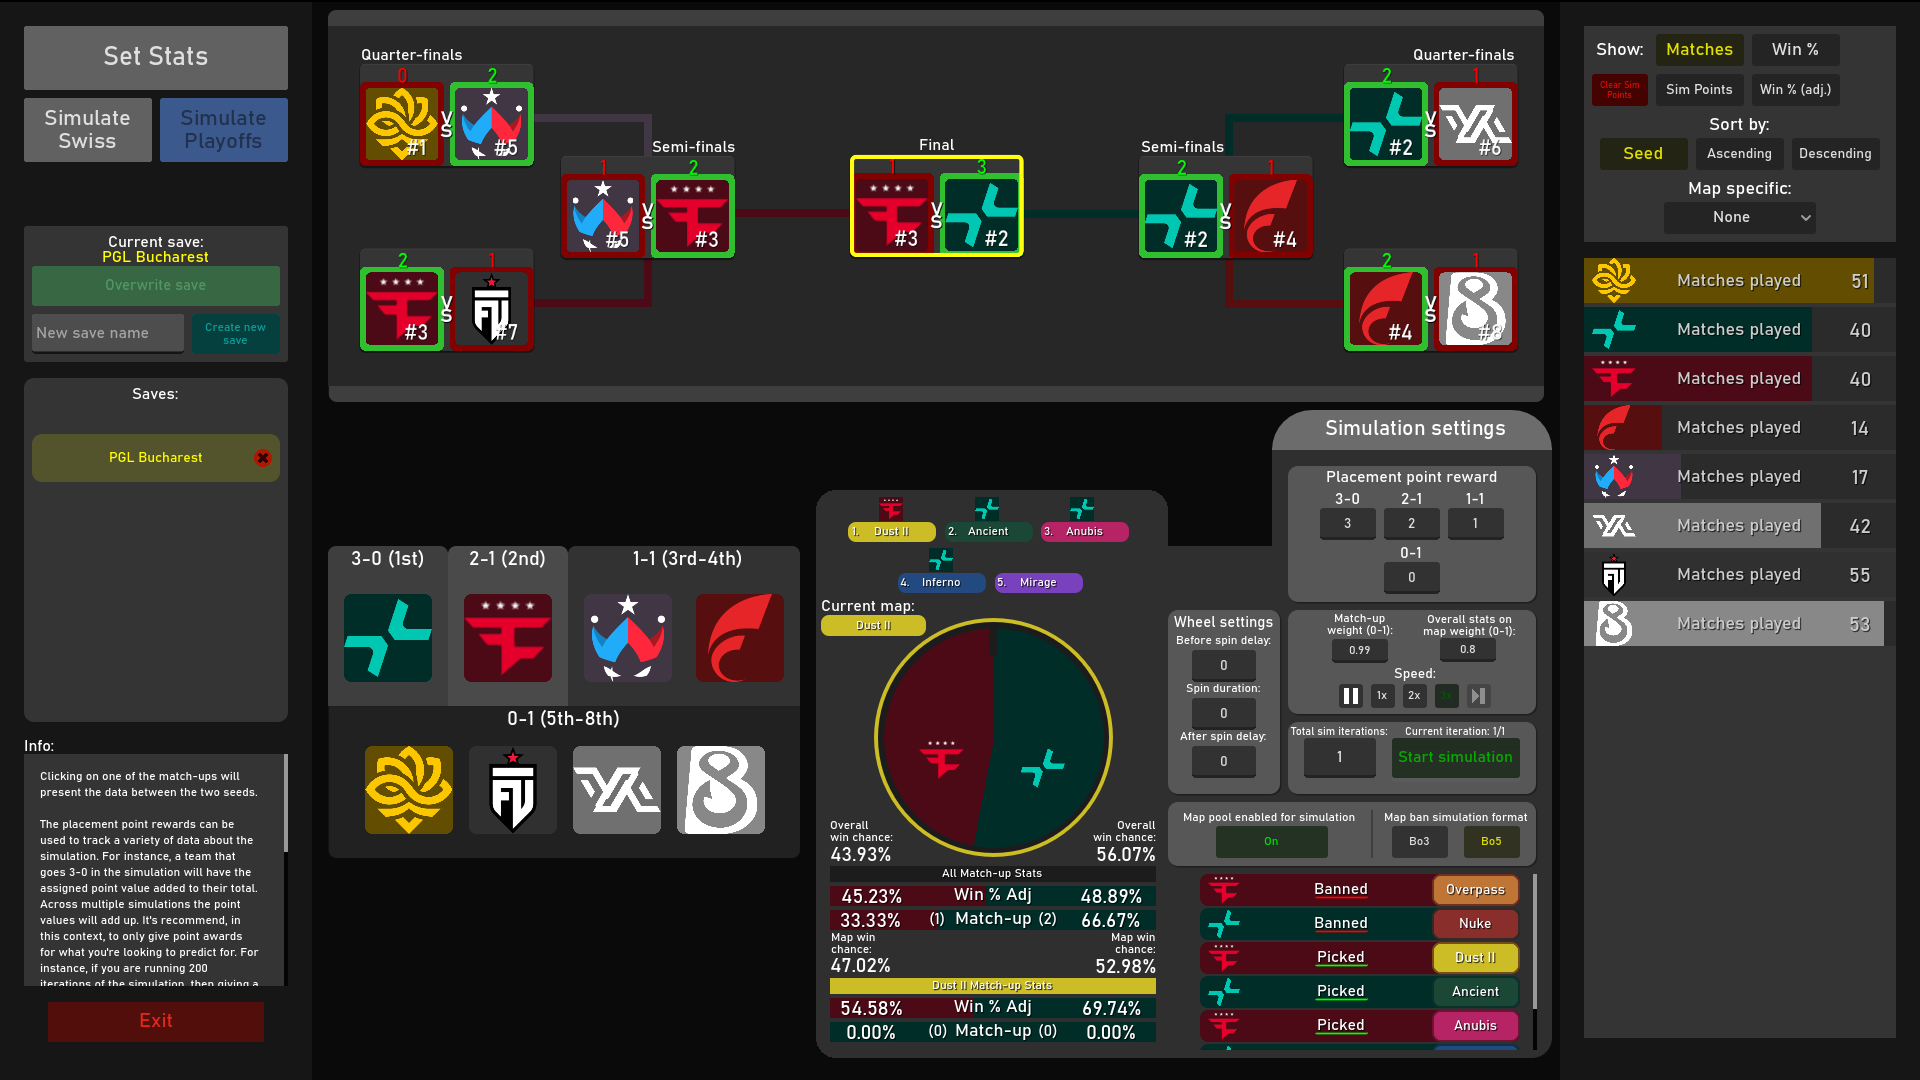
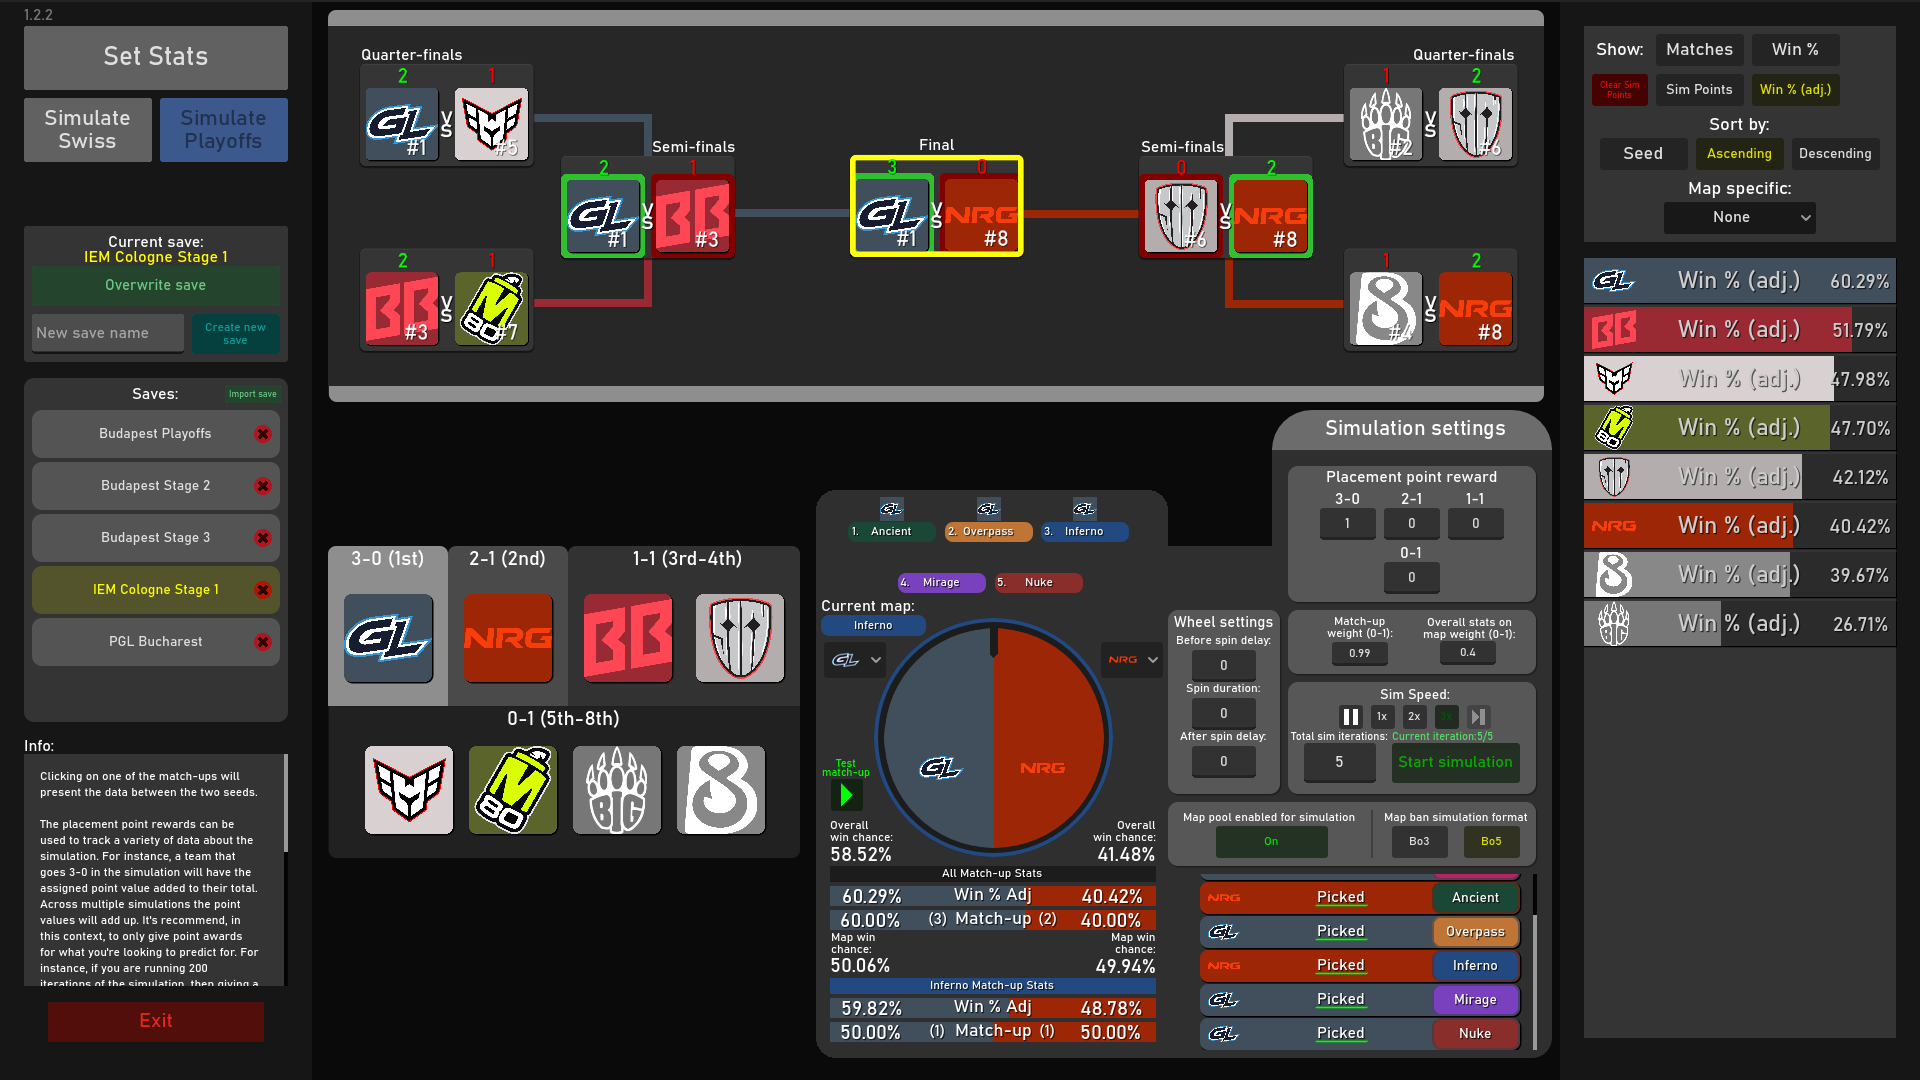
Updated README.md

diff --git a/README.md b/README.md
@@ -9,8 +9,8 @@ I have left some basic information about how the project works and how to use it
 You can access the web version of the project here:
 https://elijahlflowers.github.io/Swiss-Auto-Simulator/
 ## Example images
-### Stats of teams at the PGL Bucharest 2026
-![StatsPage](ExampleImages/BucharestStats.png)
+### Stats of teams at the Stage 1 of IEM Cologne 2026
+![StatsPage](ExampleImages/CologneStats.png)
 (stats gathered from [HLTV.org](https://www.hltv.org/events/8042/starladder-budapest-major-2025)):
 ### Map stats editor
 ![StatsPage](ExampleImages/MapStatsEditor.png)
@@ -21,10 +21,22 @@ https://elijahlflowers.github.io/Swiss-Auto-Simulator/
 
 ## How to import saves:
 
-Insert the .tres file into the following folder:
+A list of example save files is located in the ExampleSaves folder of this project. After downloading it, you can use any of the following methods to import it into the program. A template save file will come loaded upon launching the program as well, without the need to download anything. 
+### Download version:
+
+#### Method 1 - Manual import:
+Insert the .json file(s) into the following folder:
 C:\Users\YourName\AppData\Roaming\Godot\app_userdata\Swiss Auto Simulator\Saves
 
 ![SavesInFolder](ExampleImages/SavesFileExample.png)
 
-If it works, you should be able to see the save populated in the list within the program.
+The program must be restarted if using this method. If it works, you should be able to see the save populated in the list within the program.
+
+#### Method 2 - Auto import:
+Above the list of saves, press the 'Import save' button. A file dialog should appear, from here you can select multiple .json save files to upload. The files should automatically appear in the list, if the file was valid.
+![SavesInFolder](ExampleImages/AutoImport.png)
+
+### Web version
+
+In the web version, there is no list of save files, so everything must be downloaded and loaded to and from your computer directly. Importing works in a similar way to Method 2 above, except you can only import 1 save. 
 
